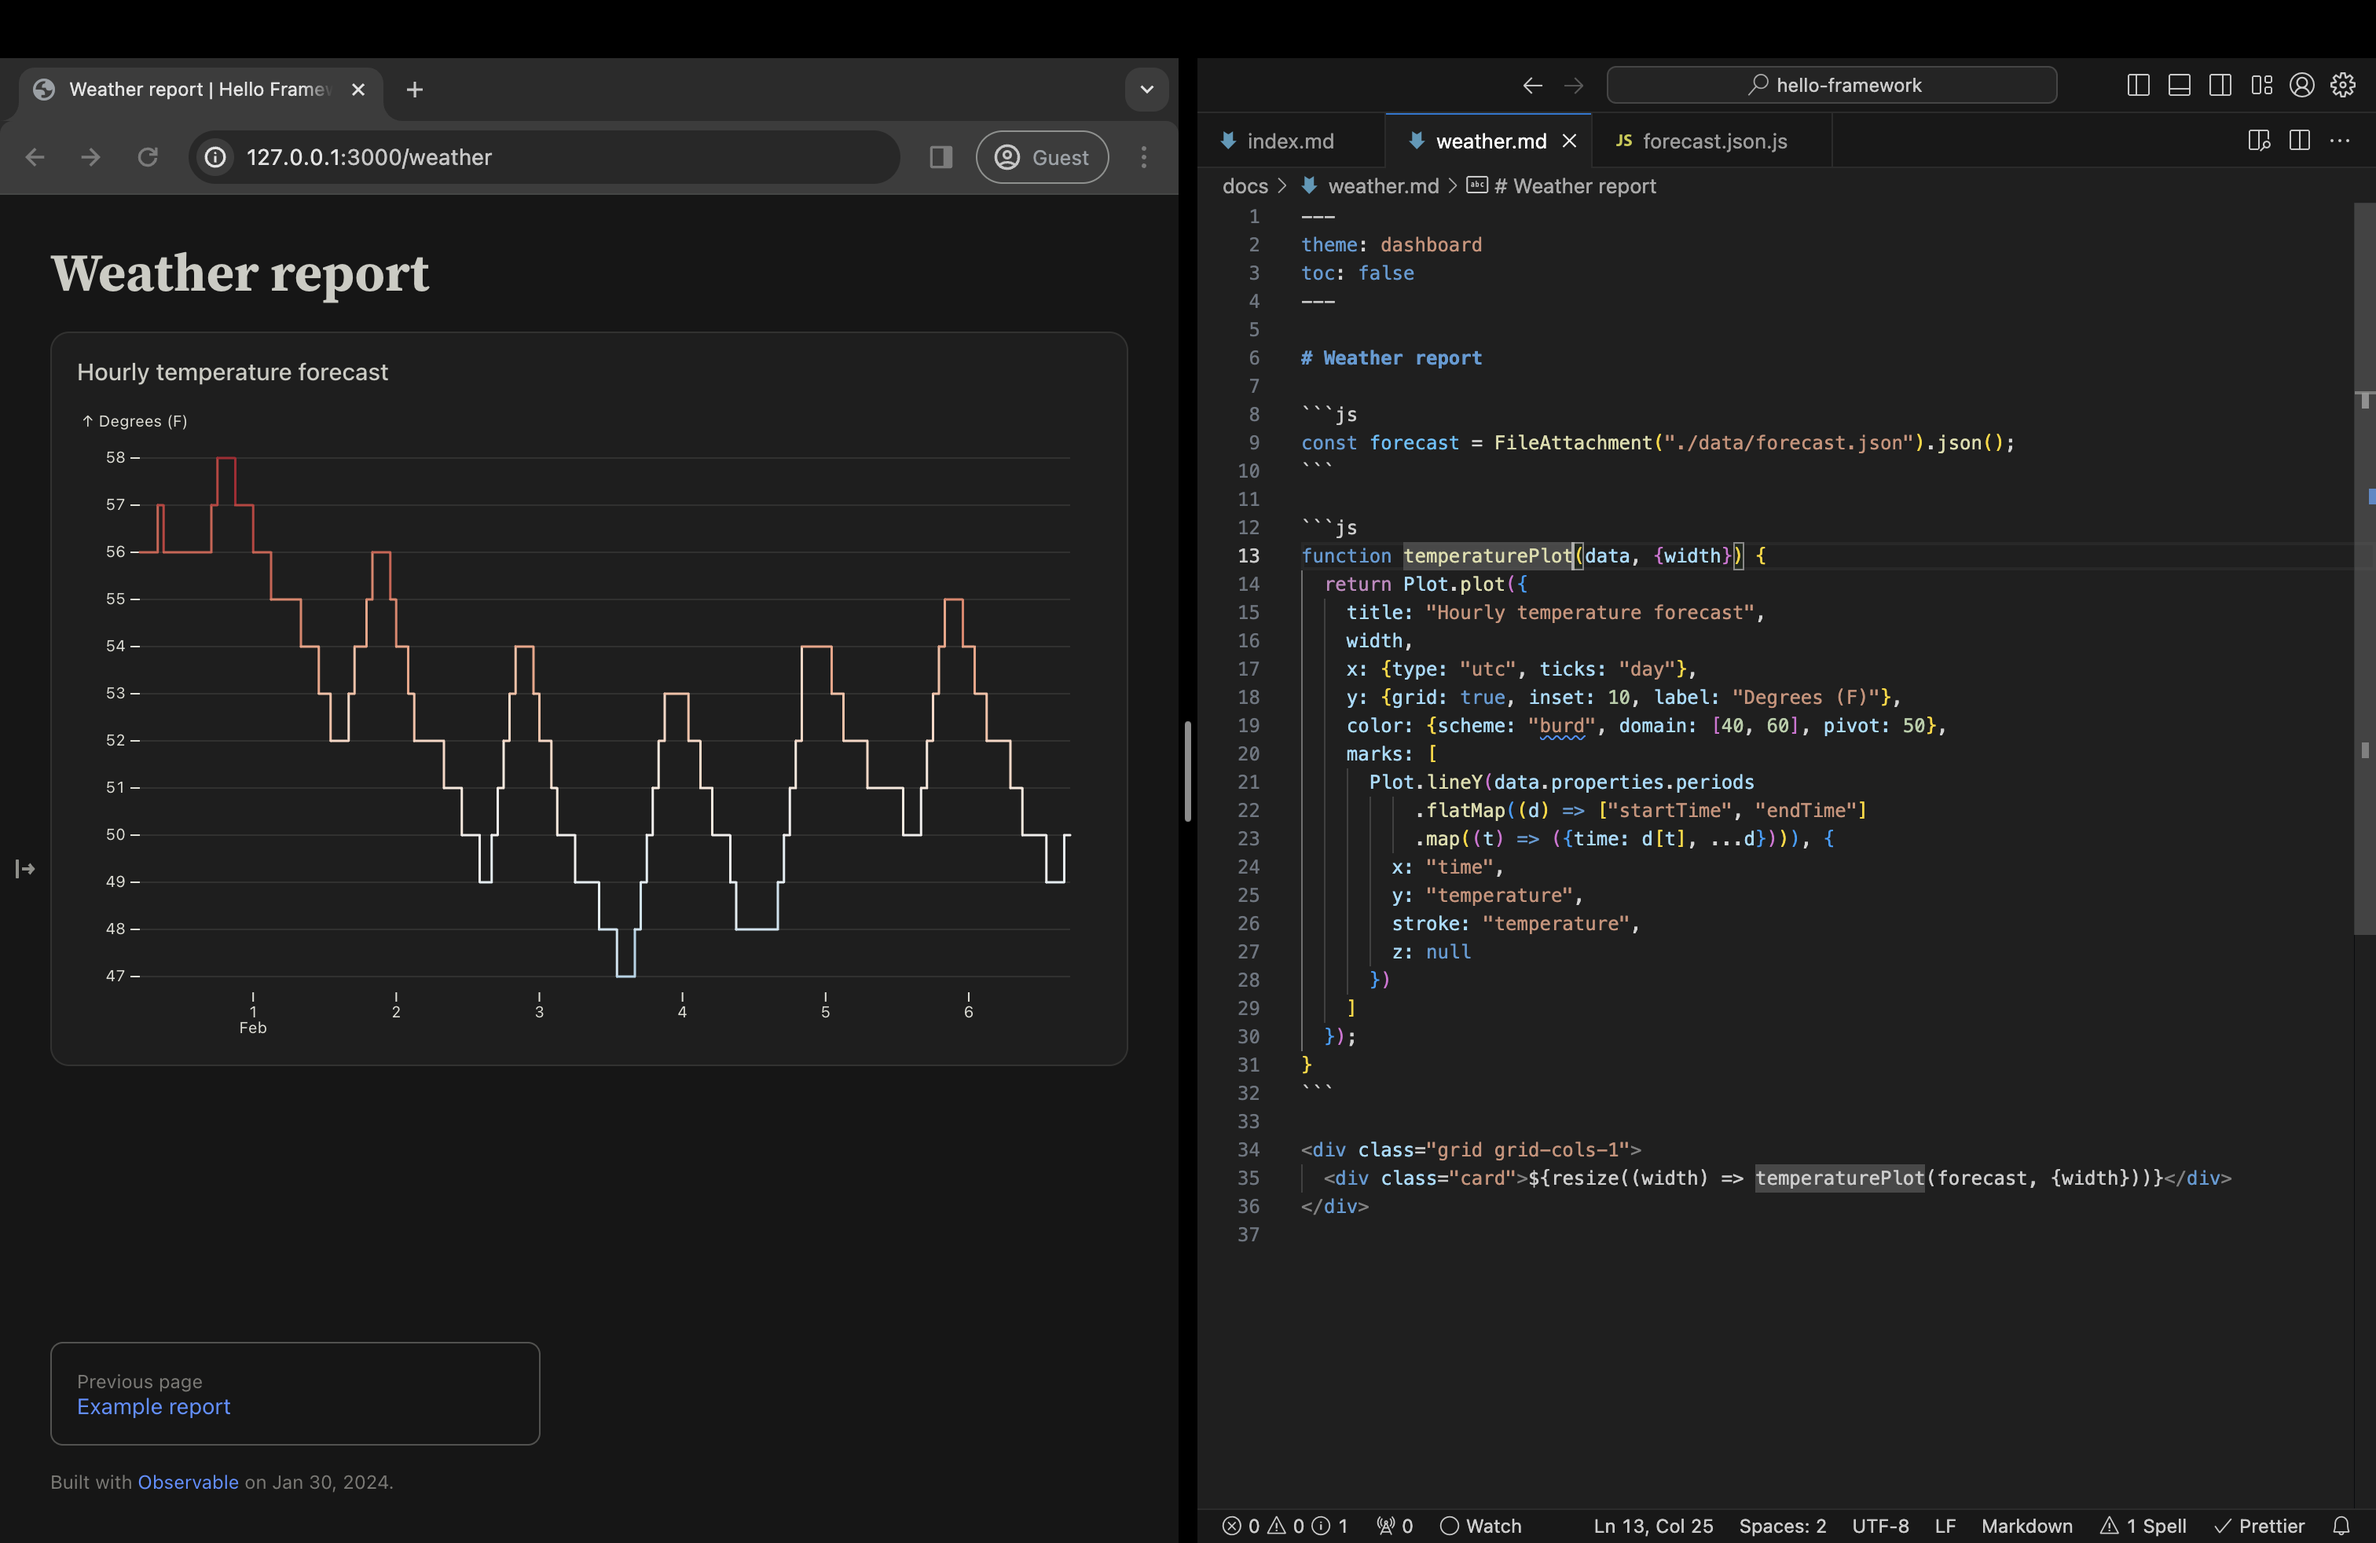
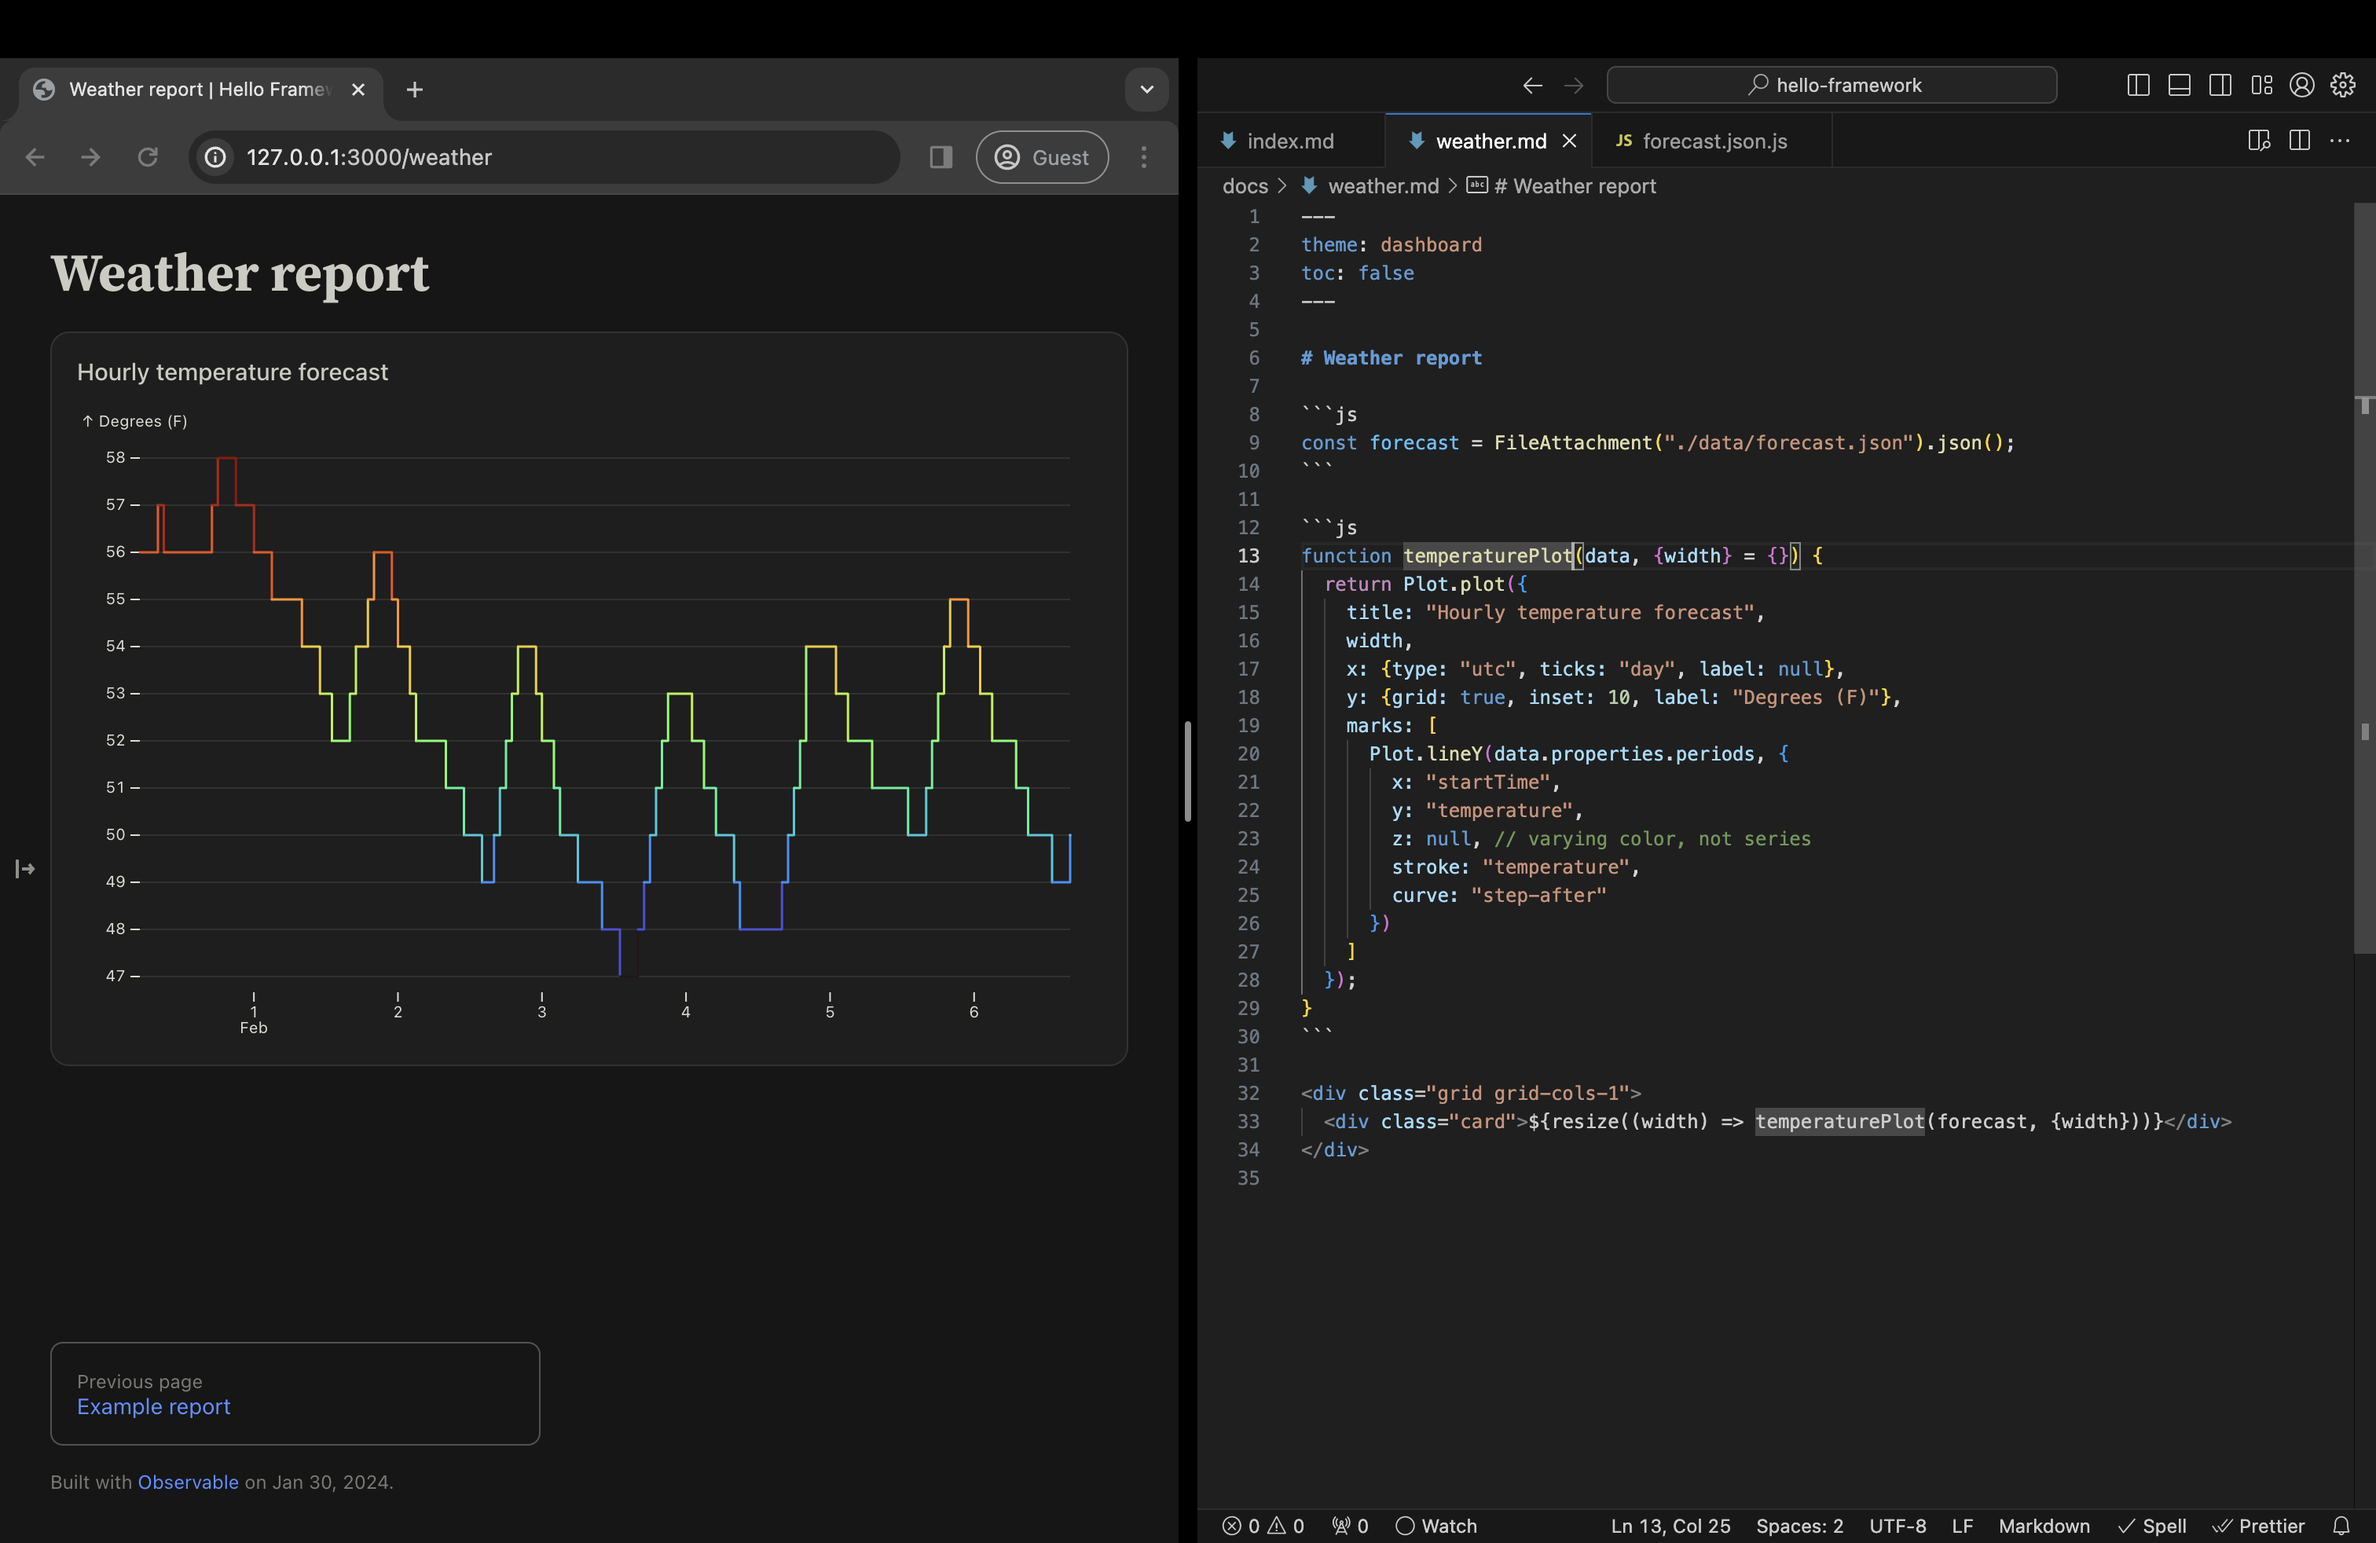
getting started, cont.

diff --git a/docs/getting-started.md b/docs/getting-started.md
@@ -72,7 +72,7 @@ const digraph = dot`digraph {
   <figcaption>An overview of developing with Framework.</figcaption>
 </figure>
 
-First you’ll setup your local development environment by [**creating**](#1.-create) a project. &para;&nbsp;Next you’ll [**develop**](#2.-develop): an iterative process where you save changes to source files in your editor while previewing the result in your browser. &para;&nbsp;When you’re ready to share, it’s time to [**publish**](#3.-publish): you can either build a static site for self-hosting or deploy directly to Observable. &para;&nbsp;Lastly, you can invite people to [**view**](#4.-view) your project!
+First you’ll setup your local development environment by [**creating**](#1.-create) a project. &para;&nbsp;Next you’ll [**develop**](#2.-develop): an iterative process where you save changes to source files in your editor while previewing the result in your browser. &para;&nbsp;When you’re ready to share, it’s time to [**publish**](#3.-publish): you can either build a static site for self-hosting or deploy directly to Observable. &para;&nbsp;Lastly, you can invite people to view your project!
 
 These are just first steps. You can continue to develop projects after publishing, and republish as needed. You can also setup continuous deployment to publish your site automatically on commit or on schedule. We’ll cover these [next steps](#next-steps) briefly below.
 
@@ -393,7 +393,7 @@ forecast
 This is a GeoJSON `Feature` object of a `Polygon` geometry representing the grid square. The `properties` object within contains the hourly forecast data. You can display it on a map with <a href="./lib/leaflet">Leaflet</a>, if you like.
 
 <figure>
-  <div id="map" style="height: 400px; margin: 1rem 0;"></div>
+  <div id="map" style="height: 400px; margin: 1rem 0; border-radius: 8px;"></div>
   <figcaption>This grid point covers the south end of the Golden Gate Bridge.</figcaption>
 </figure>
 
@@ -411,79 +411,97 @@ const forecast = FileAttachment("./data/forecast.json").json();
 
 ### Plots
 
-Now let’s add a chart using Observable Plot which is available as `Plot`.
-
-TODO Talk about implicit imports.
-
-Replace the `display(forecast)` code block with the following code:
+Now let’s add a chart using <a href="./lib/plot">Observable Plot</a>. Framework includes a variety of <a href="./javascript/imports#implicit-imports">recommended libraries</a> by default, including `Plot`, and you can always <a href="./javascript/imports">import more</a> from npm. Replace the `display(forecast)` code block with the following code:
 
 ```js run=false
 Plot.plot({
   title: "Hourly temperature forecast",
-  x: {type: "utc", ticks: "day"},
+  x: {type: "utc", ticks: "day", label: null},
   y: {grid: true, inset: 10, label: "Degrees (F)"},
-  color: {scheme: "burd", domain: [40, 60], pivot: 50},
   marks: [
-    Plot.lineY(forecast.properties.periods
-        .flatMap((d) => ["startTime", "endTime"]
-        .map((t) => ({time: d[t], ...d}))), {
-      x: "time",
+    Plot.lineY(forecast.properties.periods, {
+      x: "startTime",
       y: "temperature",
+      z: null, // varying color, not series
       stroke: "temperature",
-      z: null
+      curve: "step-after"
     })
   ]
 })
 ```
 
-TODO Talk about `display`’s behavior when passed a DOM element.
+<div class="note">Because this is JSON data, <code>startTime</code> is a <code>string</code> rather than a <code>Date</code>. Setting the <code>type</code> of the <code>x</code> scale to <code>utc</code> tells Plot to interpret these values as temporal rather than ordinal.</div>
 
-Now you’ll see…
+You should now see:
 
 <figure>
   <img loading="lazy" src="./getting-started/hello-plot.png" class="crop">
   <figcaption>Using <code>Plot</code> to make a chart.</figcaption>
 </figure>
 
-Extract into a function, promote `data` to an argument and `width` to an option…
+As before, the code block contains an expression (a call to `Plot.plot`) and hence `display` is called implicitly. And since this expression evaluates to a DOM element (a `<figure>` containing an `<svg>`), `display` inserts the element directly into the page. We didn’t have to touch the DOM API!
 
-```js run=false
-function temperaturePlot(data, {width}) {
+### Components
+
+As pages grow, complex inline JavaScript may become unwieldy and repetitive. Tidy code by moving it into functions. In Framework, a function that returns a DOM element is called a *component*.
+
+To turn the chart above into a component, wrap it in a function and promote the `data` to a required argument. Accept any named options (such as `width`) as an optional second argument with destructuring.
+
+```js echo
+function temperaturePlot(data, {width} = {}) {
   return Plot.plot({
     title: "Hourly temperature forecast",
     width,
-    x: {type: "utc", ticks: "day"},
+    x: {type: "utc", ticks: "day", label: null},
     y: {grid: true, inset: 10, label: "Degrees (F)"},
-    color: {scheme: "burd", domain: [40, 60], pivot: 50},
     marks: [
-      Plot.lineY(forecast.properties.periods
-          .flatMap((d) => ["startTime", "endTime"]
-          .map((t) => ({time: d[t], ...d}))), {
-        x: "time",
+      Plot.lineY(data.properties.periods, {
+        x: "startTime",
         y: "temperature",
+        z: null, // varying color, not series
         stroke: "temperature",
-        z: null
+        curve: "step-after"
       })
     ]
   });
 }
 ```
 
-TODO Talk about the benefits of moving into a function (importing so you can use it across pages, share it with another app, write unit tests).
+Now you can call `temperaturePlot` to display the forecast anywhere on the page:
+
+```js run=false
+temperaturePlot(forecast)
+```
+
+<div class="tip">JavaScript can be extracted into standalone modules (<code>.js</code> files) that you can <a href="./javascript/imports">import</a> into Markdown. This lets you share code across pages, write unit tests for components, and more.</div>
 
 ### Layout
 
-Move it into a grid, use `resize` instead of `width`…
+Let’s put some finishing touches on the page and wrap up this tutorial.
 
-```html run=false
-<div class="grid grid-cols-1">
-  <div class="card">${resize((width) => temperaturePlot(forecast, {width}))}</div>
+While this rudimentary dashboard only has a single chart on it, most dashboards will have lots of charts, tables, figures, values, and other elements in view. To assist in laying out dashboards, Framework includes simple `grid` and `card` CSS classes with 1, 2, 3, or 4 columns. (You can write more elaborate customs styles if you need them, or load your preferred CSS framework.)
+
+Here’s a simple two-column grid with three cards:
+
+```html echo
+<div class="grid grid-cols-2">
+  <div class="card grid-colspan-2">one–two</div>
+  <div class="card">three</div>
+  <div class="card">four</div>
 </div>
 ```
 
-TODO Talk about the `grid` and `card` classes.
+<div class="note">Framework’s grid is responsive: on narrow windows, the two-column grid will automatically collapse to a one-column grid.</div>
 
-Apply the dashboard theme…
+With charts in a grid, you typically want to render a chart responsively based on the width (and sometimes height) of the containing card. Framework’s `resize` helper takes a render function that returns a DOM element, and automatically re-renders whenever the container dimensions change. It looks like this:
+
+```html echo
+<div class="grid grid-cols-1">
+  <div class="card">${resize((width) => temperaturePlot(forecast, {}))}</div>
+</div>
+```
+
+Lastly, we can apply the `dashboard` [theme](./themes) and disable the table of contents (`toc`) using [YAML front matter](./markdown). The `dashboard` theme allows the main column to span the full width of the window; without it, the main column is limited to 1152px to improve readability, as when writing a report or documentation.
 
 ```yaml run=false
 ---
@@ -497,11 +515,25 @@ toc: false
   <figcaption>Adopting a grid layout and the <code>dashboard</code> theme.</figcaption>
 </figure>
 
-Okay that’s a pretty lame dashboard but it’s something.
+Okay that’s a pretty lame dashboard… but it’s something.
 
 ## 3. Publish
 
-When you’re ready to deploy your project, use the `build` command to generate the output root (`dist`). You can then copy the `dist` folder to your static site server.
+When you’re ready to share your project securely with your team, you can deploy it to [Observable](https://observablehq.com) using the `deploy` command:
+
+```sh
+yarn deploy
+```
+
+TODO Does `yarn deploy` walk you through sign-up and authentication yet? Do we want to describe those steps here?
+
+Once done, the command will print the URL where you can view your project. Something like: https://{workspace}.observablehq.cloud/{slug}.
+
+TODO Describe inviting users to your workspace to see the project.
+
+### Self hosting
+
+If you want to host your project somewhere else, or self-host, use the `build` command to generate the output root (`dist`). You can then copy the `dist` folder to your static site server.
 
 To generate your static site:
 
@@ -510,18 +542,6 @@ yarn build
 ```
 
 You can then use `npx http-server dist` to preview your built site.
-
-If you’d like to host your project on [Observable](https://observablehq.com) and share it securely with your team, use the `deploy` command:
-
-```sh
-yarn deploy
-```
-
-Once done, the command will print the URL where you can view your project. Something like: https://{workspace}.observablehq.cloud/{slug}.
-
-## 4. View
-
-Invite users, share a link…
 
 ## Next steps
 
